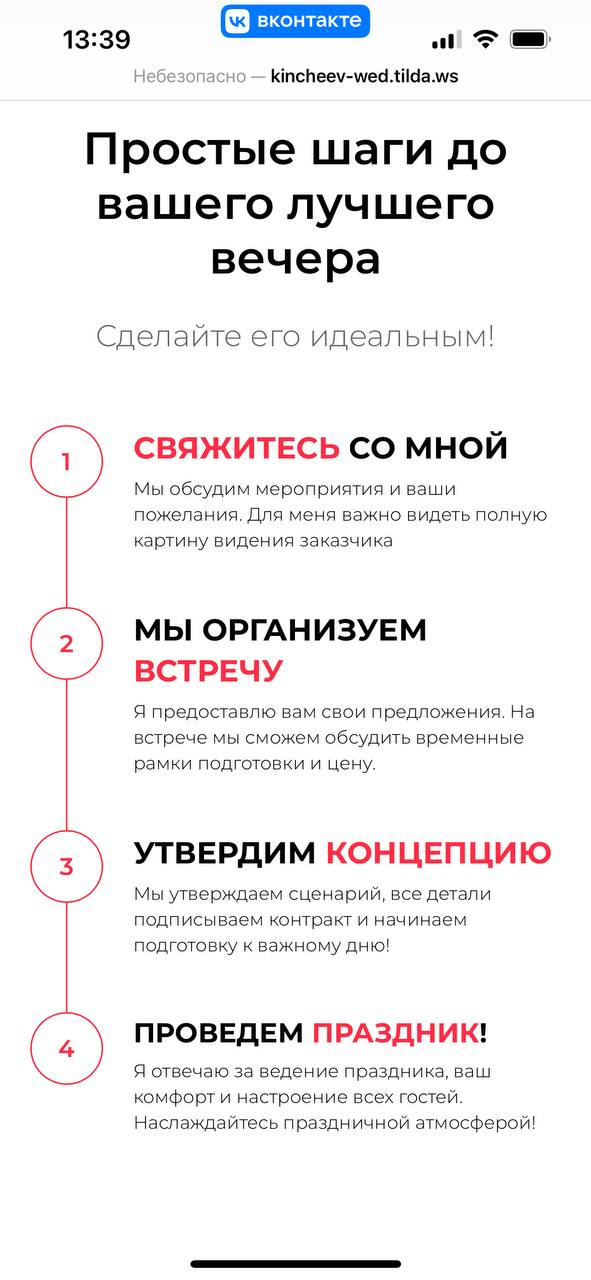
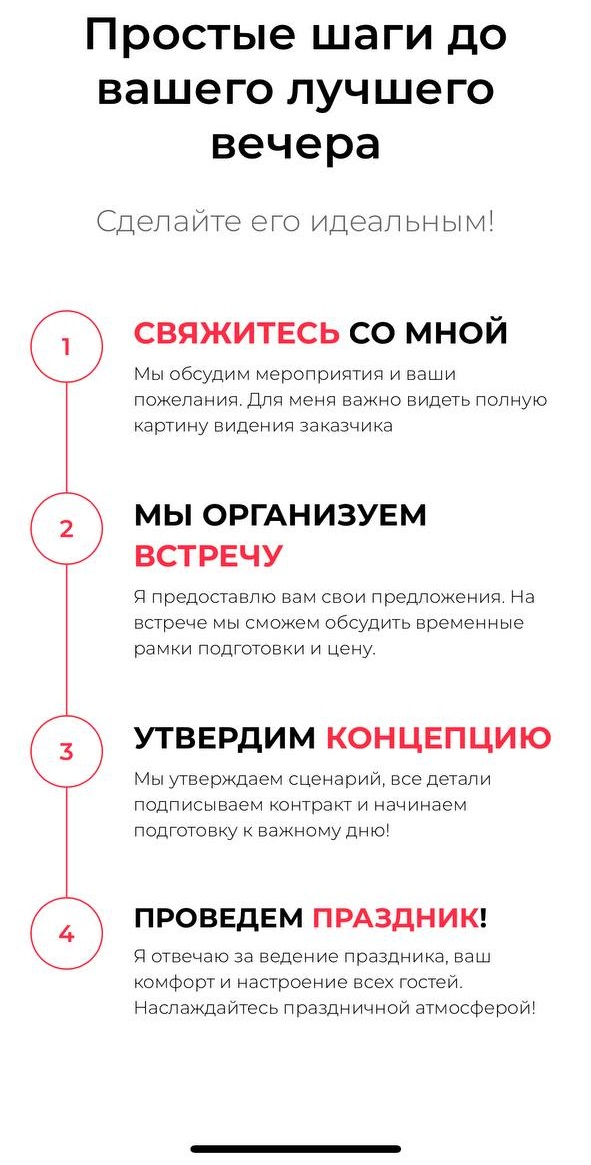
добавлены шаги по заказу

diff --git a/index.html b/index.html
@@ -118,6 +118,43 @@
             <p><a href="https://vk.com/topic-62944515_49292964" target="_blank" class="more-reviews-link">Больше отзывов здесь</a></p>
         </div>
     </section>
+    <section class="steps section">
+        <div class="container">
+            <h2 class="section-title">Простые шаги до вашего лучшего вечера</h2>
+            <p class="section-subtitle">Сделайте его идеальным!</p>
+            <div class="step">
+                <div class="step-number-circle">1</div>
+                <div class="step-content">
+                    <h3 class="step-title">Свяжитесь со мной</h3>
+                    <p class="step-text">Мы обсудим мероприятия и ваши пожелания. Для меня важно видеть полную картину видения заказчика.</p>
+                </div>
+            </div>
+            <div class="arrow"></div>
+            <div class="step">
+                <div class="step-number-circle">2</div>
+                <div class="step-content">
+                    <h3 class="step-title">Мы организуем встречу</h3>
+                    <p class="step-text">Я предоставлю вам свои предложения. На встрече мы сможем обсудить временные рамки подготовки и цену.</p>
+                </div>
+            </div>
+            <div class="arrow"></div>
+            <div class="step">
+                <div class="step-number-circle">3</div>
+                <div class="step-content">
+                    <h3 class="step-title">Утвердим концепцию</h3>
+                    <p class="step-text">Мы утверждаем сценарий, все детали, подписываем контракт и начинаем подготовку к важному дню!</p>
+                </div>
+            </div>
+            <div class="arrow"></div>
+            <div class="step">
+                <div class="step-number-circle">4</div>
+                <div class="step-content">
+                    <h3 class="step-title">Проведем праздник!</h3>
+                    <p class="step-text">Я отвечаю за ведение праздника, ваш комфорт и настроение всех гостей. Наслаждайтесь праздничной атмосферой!</p>
+                </div>
+            </div>
+        </div>
+    </section>
     <section class="contact section">
         <div class="container">
             <h2 class="section-title">Контакты</h2>

diff --git a/styles.css b/styles.css
@@ -176,3 +176,79 @@
 .more-reviews-link:hover {
     color: #fff;
 }
+
+.steps .container {
+    width: 80%;
+    margin: 0 auto;
+    position: relative;
+    display: flex;
+    flex-direction: column;
+    align-items: center;
+}
+
+.steps .step {
+    display: flex;
+    align-items: center;
+    margin-bottom: 5px;
+    text-align: left;
+    position: relative;
+    width: 100%;
+    max-width: 600px;
+}
+
+/* .steps .step:not(:last-child) .step-number-circle::after {
+    content: '';
+    position: absolute;
+    width: 2px;
+    height: calc(100% + 30px);
+    background-color: #d3a97a;
+    left: 50%;
+    transform: translateX(-50%);
+    top: 100%;
+} */
+
+.steps .step-number-circle {
+    width: 40px;
+    height: 40px;
+    min-width: 40px;
+    min-height: 40px;
+    border-radius: 50%;
+    background-color: #d3a97a;
+    color: #1a1a1a;
+    display: flex;
+    align-items: center;
+    justify-content: center;
+    font-size: 1.5em;
+    font-weight: bold;
+    margin-right: 20px;
+    position: relative;
+    z-index: 1;
+}
+
+
+.steps .step-content {
+    text-align: center;
+    padding-left: 0;
+}
+
+.steps .step-title {
+    font-size: 1.5em;
+    color: #d3a97a;
+    margin-bottom: 10px;
+    text-align: left;
+}
+
+.steps .step-text {
+    font-size: 1.2em;
+    color: #fff;
+    text-align: left;
+}
+
+.arrow {
+    width: 0;
+    height: 0;
+    border-left: 15px solid transparent;
+    border-right: 15px solid transparent;
+    border-top: 15px solid  #d3a97a;
+    margin: 0 auto;
+}
